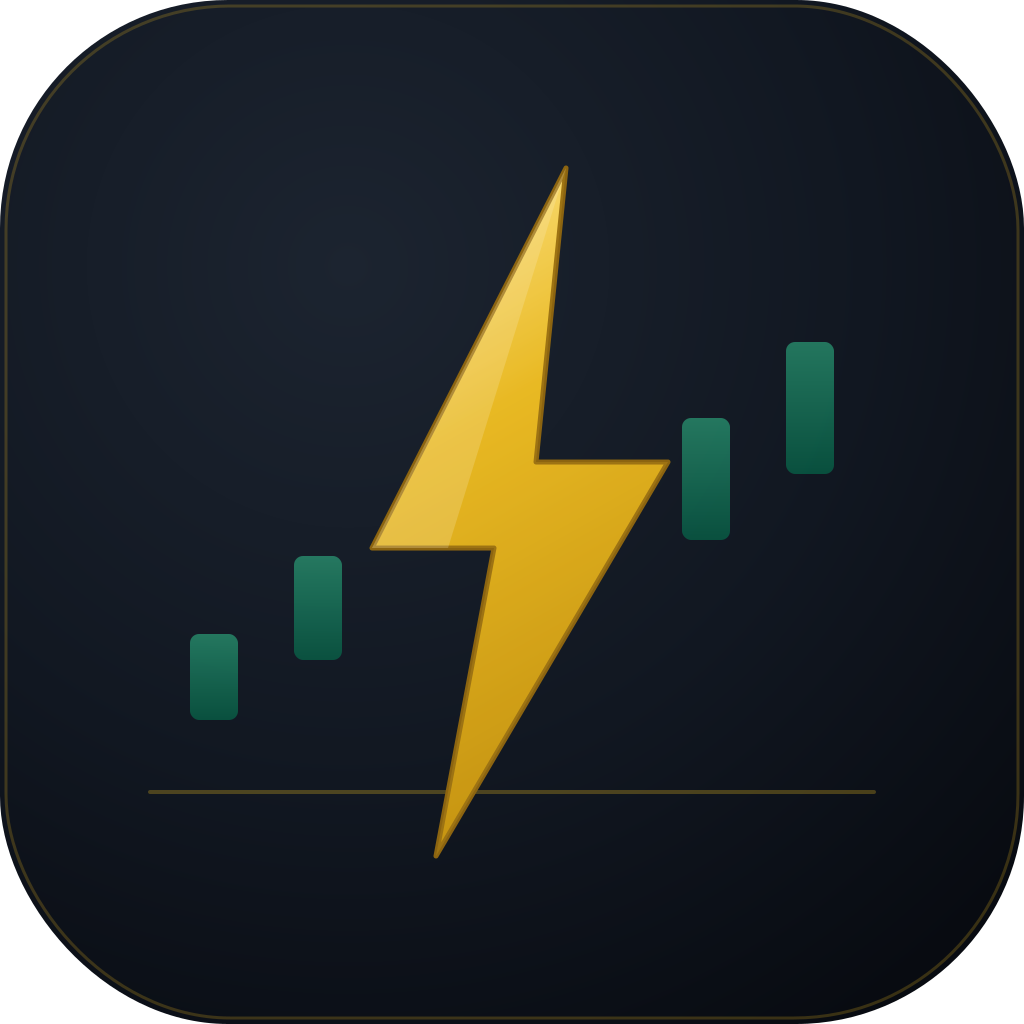
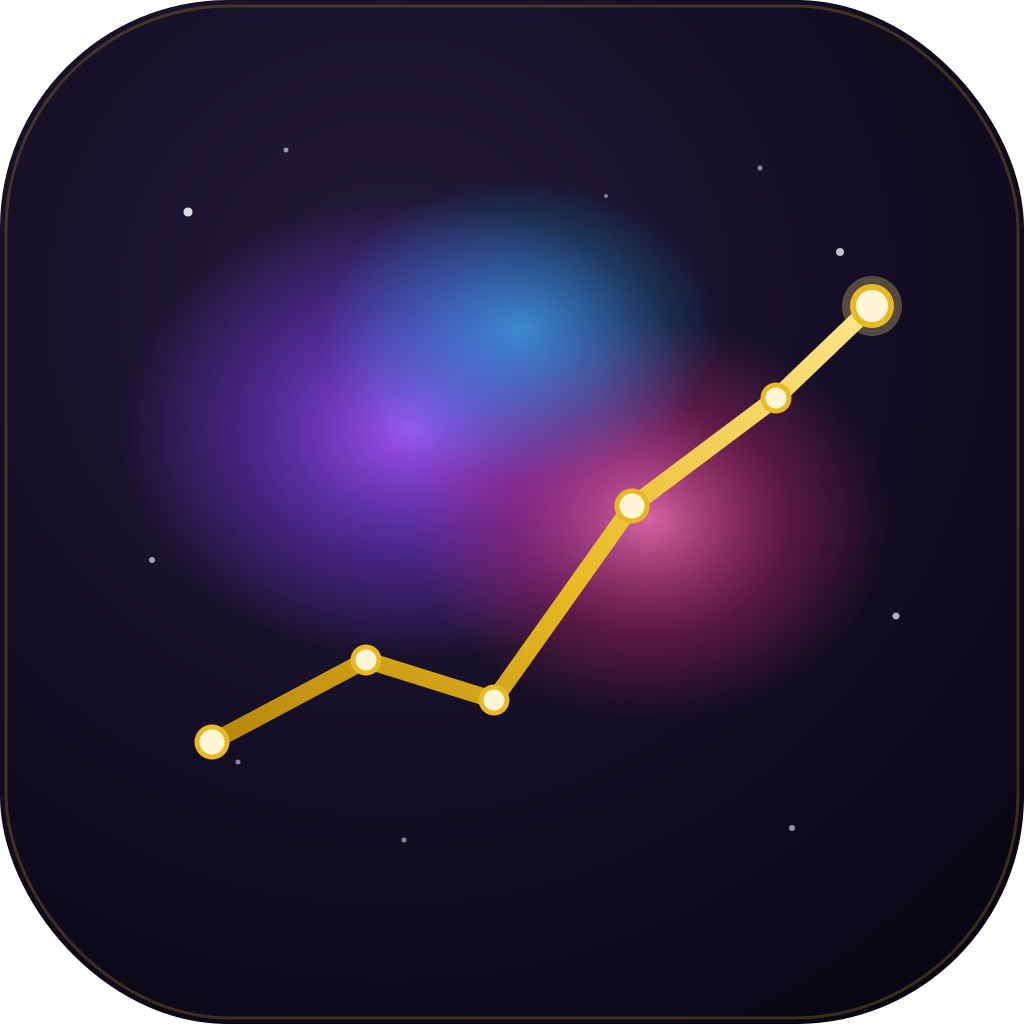
Rebrand Discord assets from Lightning Trading to Nebula
The Discord application is named Nebula, so the artwork and copy now
match it.

- logo.svg redrawn: layered nebula clouds behind a gold constellation
  whose vertices trace an ascending trend line. Keeps the gold accent
  from the previous mark so it still reads as a trading desk rather than
  a generic space icon.
- emoji-bolt replaced by emoji-star; the bolt was tied to the old name.
  Four-point sparkle over five so the points survive downscaling to the
  32px Discord renders emoji at.
- Lead category renamed LIGHTNING -> NEBULA; User-Agent and docs updated.

Also fixes an XML parse error: SVG comments cannot contain a double
hyphen, which broke cairosvg on the first render.

Claude-Session: https://claude.ai/code/session_01Pc3YyoAFYVXWiER7rxTWxz

Changed region(s): [[0.125, 0.1562, 0.9062, 0.8438]]

diff --git a/discord/provision.py b/discord/provision.py
@@ -40,7 +40,7 @@ class Client:
         self.session = requests.Session()
         self.session.headers.update({
             "Authorization": f"Bot {token}",
-            "User-Agent": "LightningTrading/1.0 (+https://github.com/PheonixOfTesla/forex-bot)",
+            "User-Agent": "Nebula/1.0 (+https://github.com/PheonixOfTesla/forex-bot)",
         })
 
     def request(self, method, path, **kw):
@@ -275,7 +275,7 @@ def main():
 
     print(f"\nDone. {created} channels created, "
           f"{len(bp.ROLES)} roles in sync.")
-    print("Next: drag Lightning Trading's own role above Member in "
+    print("Next: drag Nebula's own role above Member in "
           "Server Settings so it can manage the tiers below it.")
 
 

diff --git a/discord/blueprint.py b/discord/blueprint.py
@@ -1,4 +1,4 @@
-"""Declarative spec for the Lightning Trading Discord server.
+"""Declarative spec for the Nebula Discord server.
 
 Edit this file, then run `python provision.py` to apply it. Provisioning is
 idempotent: roles and channels are matched by name, created when absent and
@@ -113,7 +113,7 @@ ROLES = [
 
 TREE = [
     {
-        "category": "▬▬▬  LIGHTNING  ▬▬▬",
+        "category": "▬▬▬  NEBULA  ▬▬▬",
         "overwrites": {
             "@everyone": {"allow": READ_ONLY, "deny": SEND_MESSAGES},
         },

diff --git a/discord/render_icons.py b/discord/render_icons.py
@@ -25,7 +25,7 @@ TARGETS = [
     ("logo.svg", "app-icon-1024.png",   1024),
     ("logo.svg", "server-icon-512.png",  512),
     ("logo.svg", "logo-256.png",         256),
-    ("emoji-bolt.svg",   "emoji-bolt.png",   128),
+    ("emoji-star.svg",   "emoji-star.png",   128),
     ("emoji-long.svg",   "emoji-long.png",   128),
     ("emoji-short.svg",  "emoji-short.png",  128),
     ("emoji-funded.svg", "emoji-funded.png", 128),

diff --git a/discord/README.md b/discord/README.md
@@ -1,6 +1,6 @@
 # Discord server provisioning
 
-Builds out the Lightning Trading Discord — roles, categories, channels and
+Builds out the Nebula Discord — roles, categories, channels and
 per-channel permissions — from a single declarative file, plus the brand
 assets to dress it.
 
